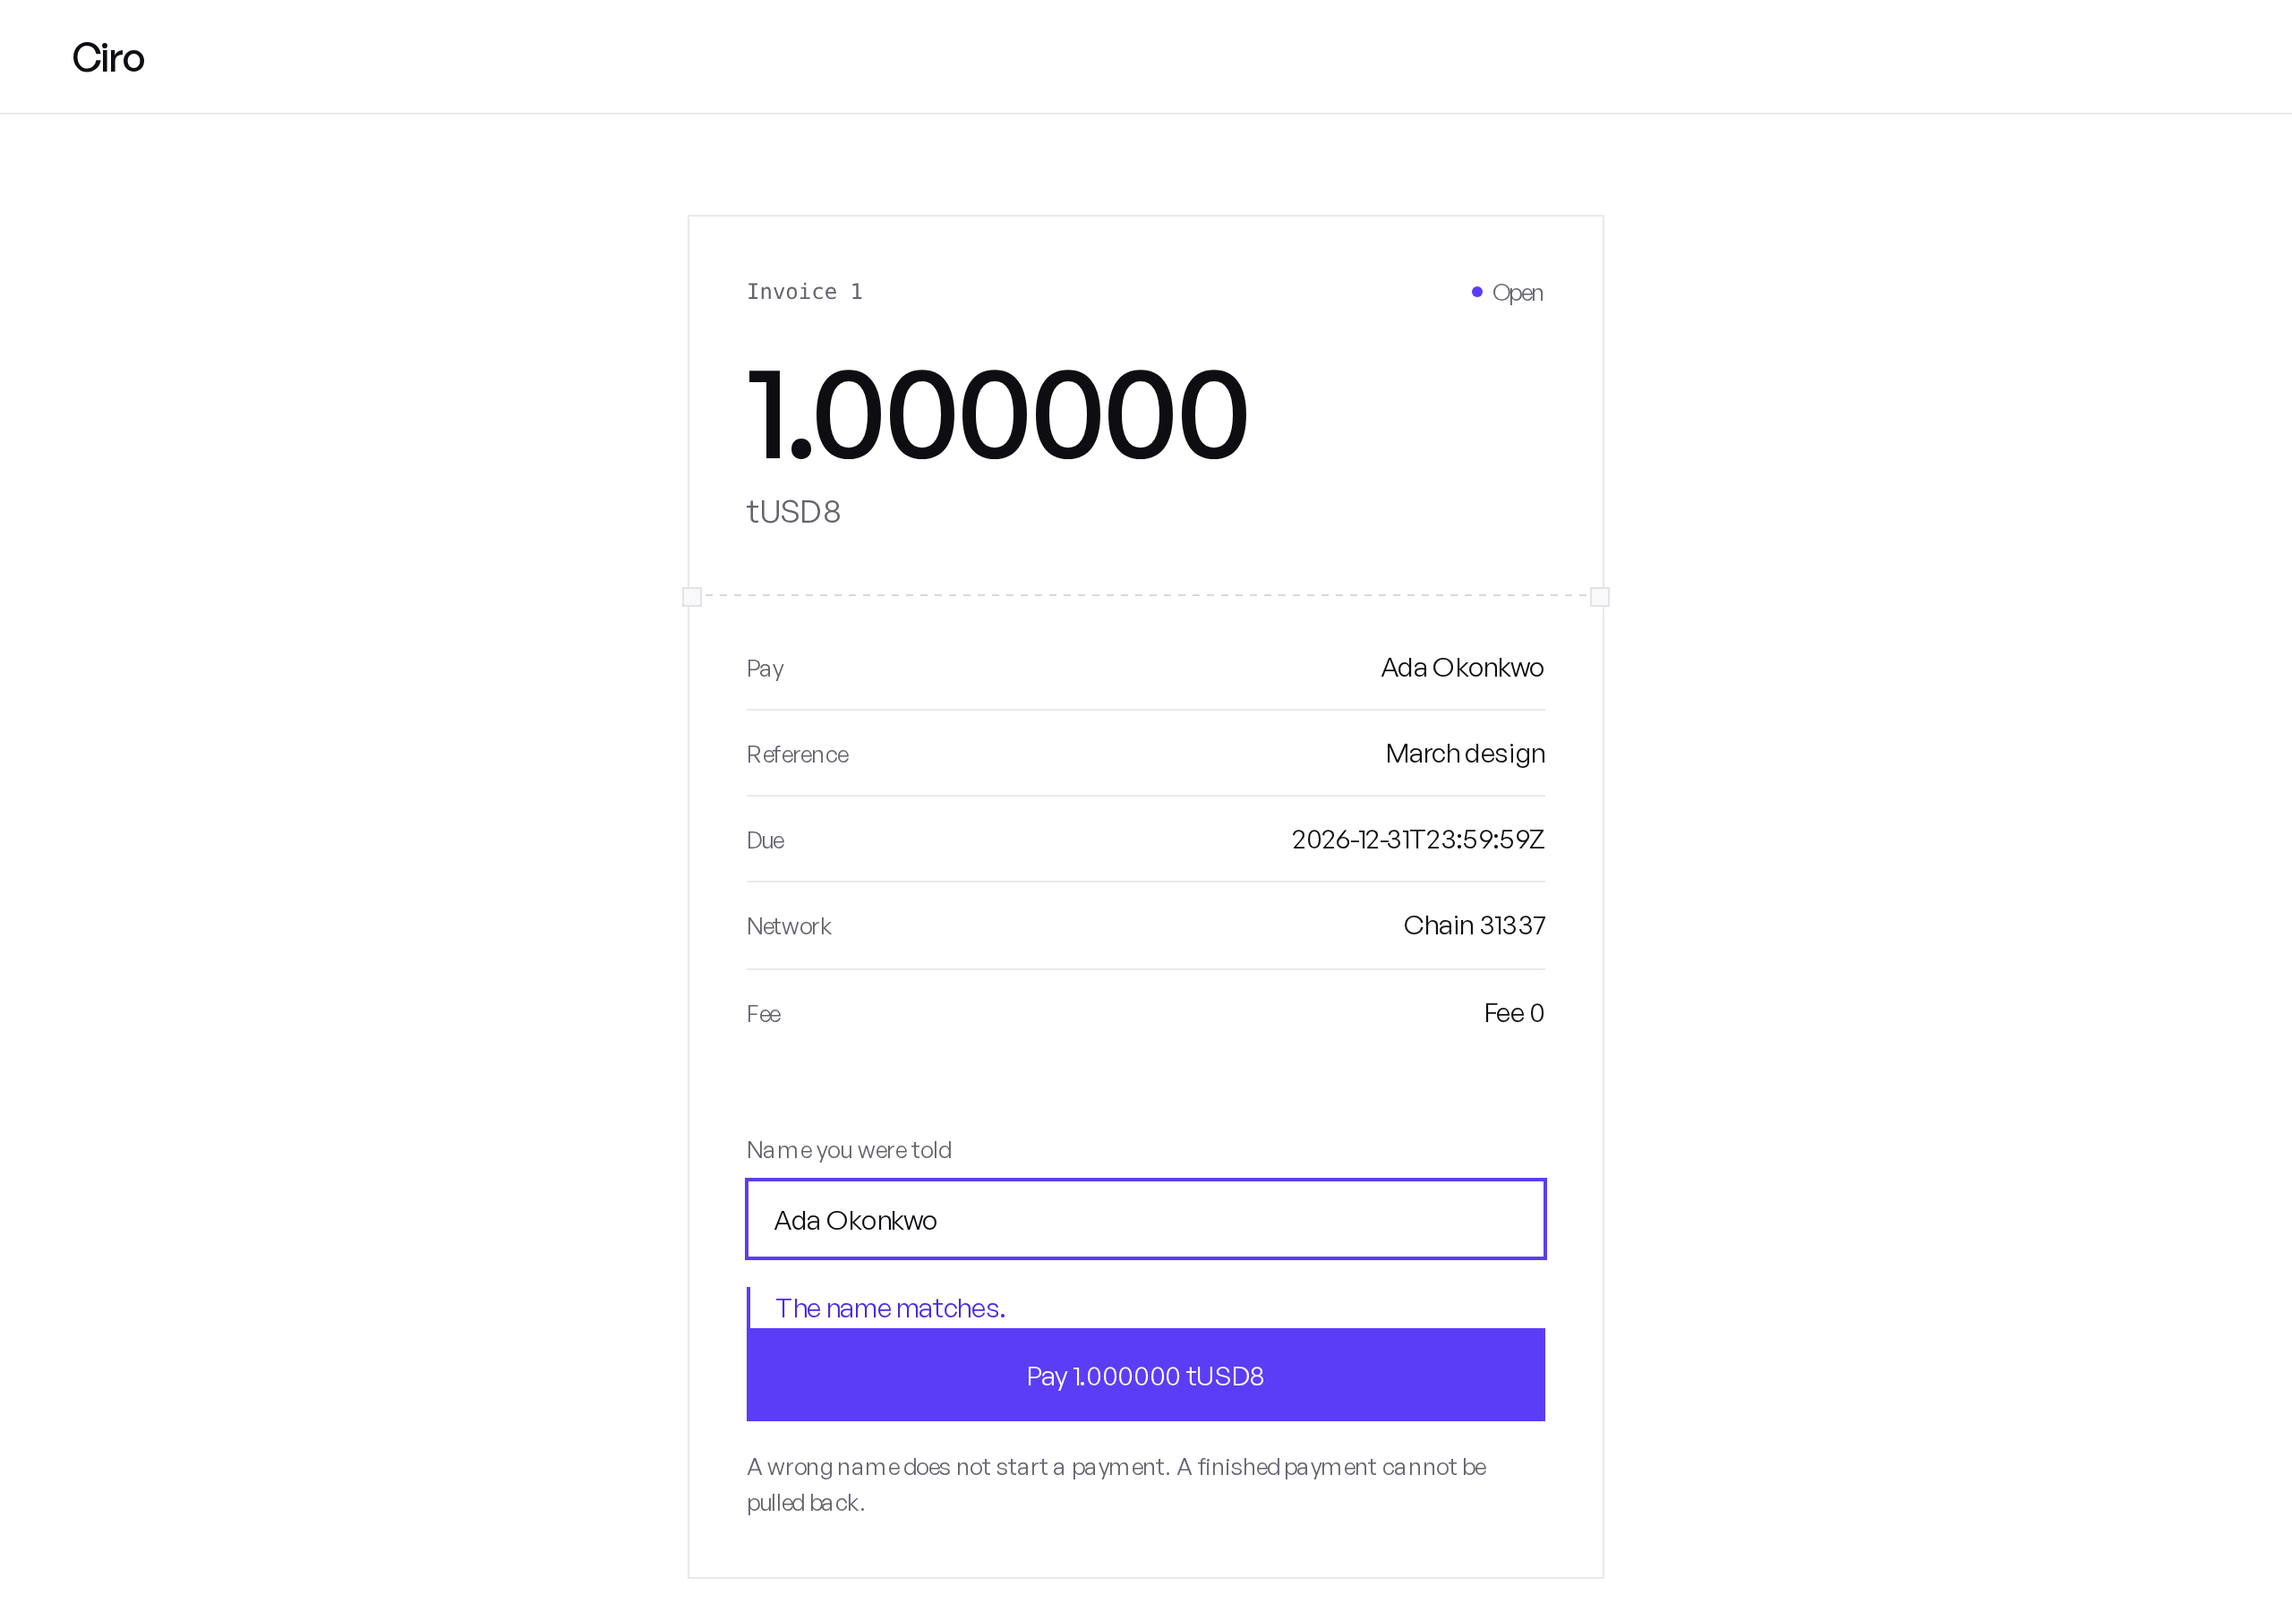
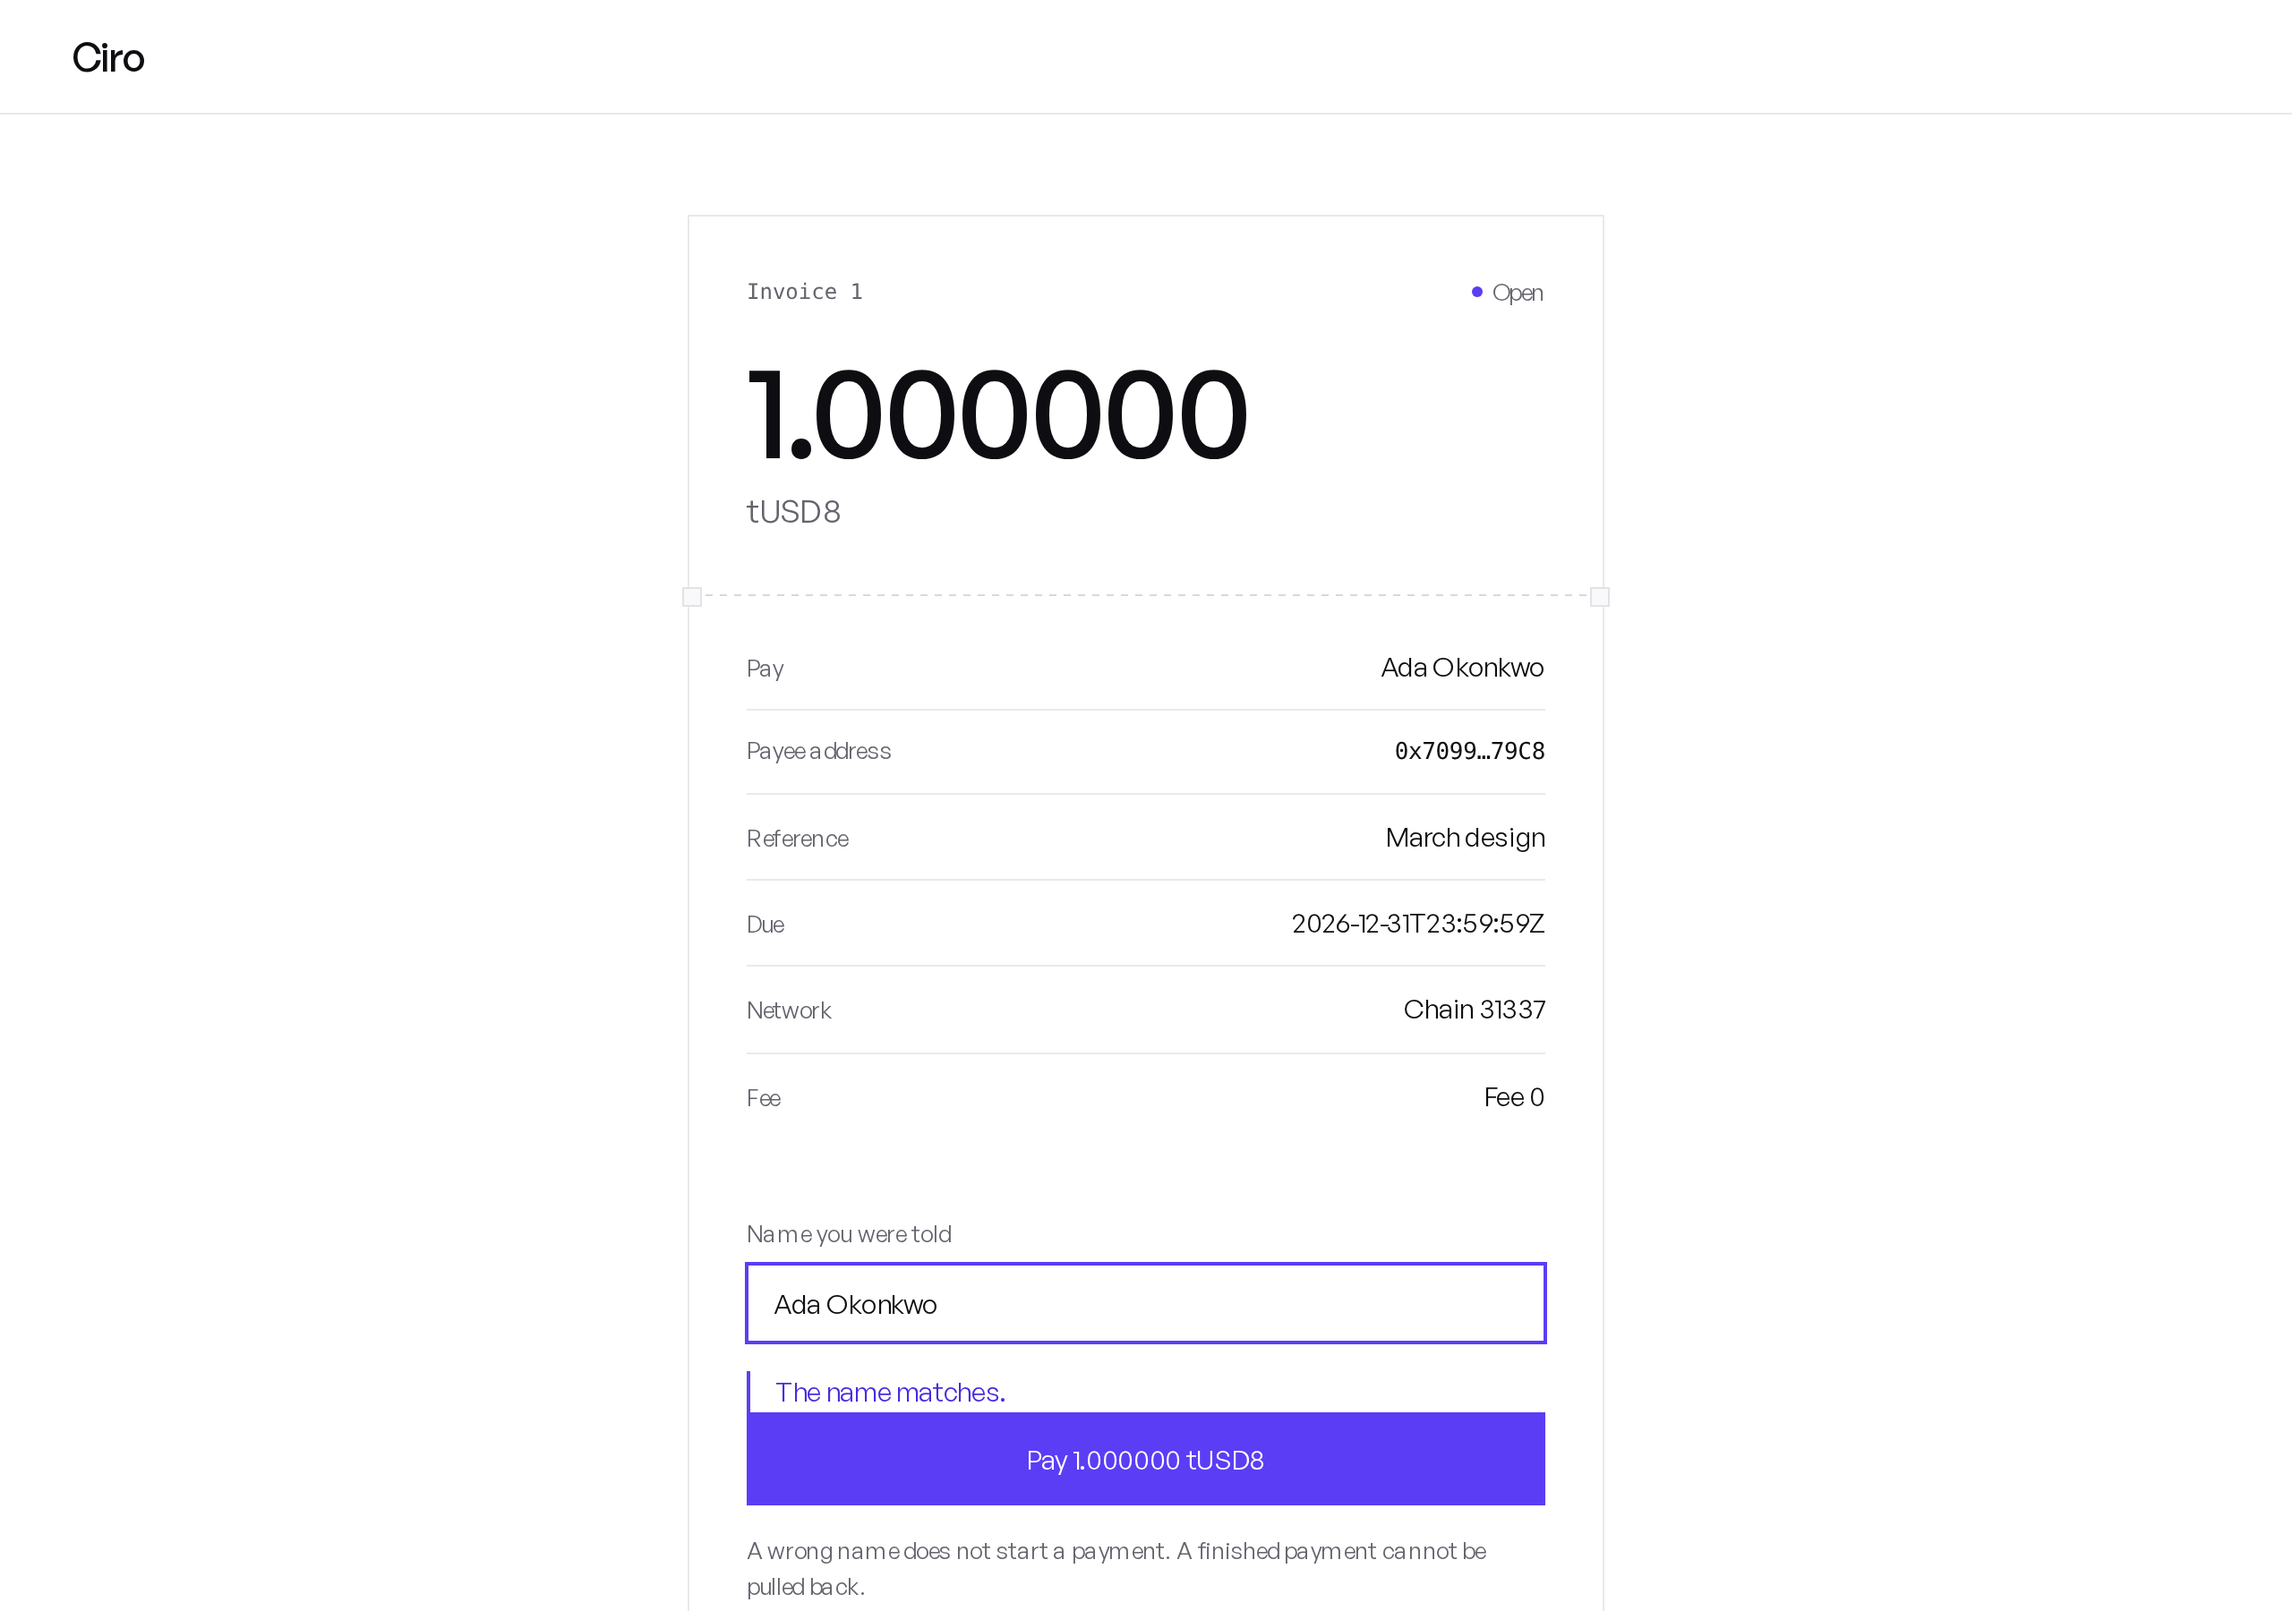
Fix the published CLI and align the product copy and docs (#25)

diff --git a/web/src/pages.js b/web/src/pages.js
@@ -1,7 +1,7 @@
 import { decodeEventLog } from "viem";
 import { ciroAbi } from "../../packages/api/src/abi.js";
 import { api } from "./api.js";
-import { esc, feeLine, feeOf, foldedText, formatFee, formatUnits, parseHuman, shortAddress, when } from "./format.js";
+import { esc, feeLine, feeOf, foldedText, formatFee, formatUnits, parseHuman, shortAddress, shortHash, when } from "./format.js";
 import { payDecision } from "./pay-state.js";
 import {
   apiUrl,
@@ -309,7 +309,7 @@ const FAQ = [
   ],
   [
     "Why does the payer type a name?",
-    "A name is easier to check than a hex address. The contract compares the typed name to the registered name and refuses anything that is not exact.",
+    "A name is easier to check than a hex address. The contract compares the typed name to the name locked on that invoice and refuses anything that is not exact.",
   ],
   [
     "What happens when the name is close?",
@@ -325,7 +325,7 @@ const FAQ = [
   ],
   [
     "What does it cost?",
-    "This deployment charges a zero fee. A later priced deployment charges 0.5%, shown before the payer confirms. Gas is paid in tQDAY.",
+    "This deployment charges a zero fee. The contract caps any future fee at 1%, and the API puts it in the summary before the payer signs. Gas is paid in tQDAY.",
   ],
   [
     "Can I pay without an account?",
@@ -360,7 +360,7 @@ function docsTeaser() {
   return `<section class="section" id="build" aria-labelledby="build-title">
     <div class="section-head">
       <p class="bracket">[ Build ]</p>
-      <h2 class="h2" id="build-title">The API, the CLI, and an MCP server.</h2>
+      <h2 class="h2" id="build-title">The API, the CLI, an MCP server, and an SDK.</h2>
       <p class="lede">Read an invoice without a key. Prepare a payment without signing it. Every route and both contract addresses are in the docs.</p>
     </div>
     <div class="build-grid">
@@ -379,8 +379,14 @@ function docsTeaser() {
       <a class="card build-card" href="#/docs">
         <span class="build-icon">${icon("book")}</span>
         <span class="build-title">MCP</span>
-        <code>node packages/mcp/bin/ciro-mcp.js</code>
+        <code>npx @getciro/mcp</code>
         <span class="build-link">Connect an agent ${arrow()}</span>
+      </a>
+      <a class="card build-card" href="#/docs">
+        <span class="build-icon">${icon("link")}</span>
+        <span class="build-title">SDK</span>
+        <code>npm i @getciro/sdk</code>
+        <span class="build-link">Read the client ${arrow()}</span>
       </a>
     </div>
   </section>`;
@@ -462,7 +468,7 @@ export function landing() {
           <p class="lede">A wallet address is easy to copy wrong and hard to check. A registered name is something two people can agree on out loud.</p>
           <dl class="why-facts">
             <div><dt>Exact</dt><dd>The name matches the invoice. The pay button appears.</dd></div>
-            <div><dt>Close</dt><dd>One letter or one space off. No pay button.</dd></div>
+            <div><dt>Close</dt><dd>The initials and word count match, and the length is within two characters. No pay button.</dd></div>
             <div><dt>Unknown</dt><dd>Not the registered name. No pay button.</dd></div>
           </dl>
         </div>
@@ -1369,7 +1375,7 @@ export async function receiptPage(id) {
             ${fee > 0n ? `<div class="fact-row"><dt>Net to payee</dt><dd>${esc(formatUnits(net))}</dd></div>` : ""}
             <div class="fact-row"><dt>Paid</dt><dd>${esc(when(paidAt))}</dd></div>
             <div class="fact-row"><dt>Network</dt><dd>${esc(chainName(chainId))}</dd></div>
-            <div class="fact-row"><dt>Transaction</dt><dd class="mono">${href ? `<a href="${esc(href)}" rel="noopener">${esc(hash)}</a>` : esc(hash || "Not indexed")}</dd></div>
+            <div class="fact-row"><dt>Transaction</dt><dd class="mono" data-tx="${esc(hash || "")}">${href ? `<a href="${esc(href)}" rel="noopener" title="${esc(hash)}">${esc(shortHash(hash))}</a>` : esc(hash ? shortHash(hash) : "Not indexed")}</dd></div>
           </dl>
         </div>
         <div class="doc-body">

diff --git a/packages/cli/src/cli.js b/packages/cli/src/cli.js
@@ -3,7 +3,17 @@ import { createInterface } from "node:readline";
 import { join } from "node:path";
 import { createPublicClient, createWalletClient, defineChain, http } from "viem";
 import { privateKeyToAccount } from "viem/accounts";
-import { parseHuman } from "../../shared/src/money.js";
+
+// Mirrors packages/shared/src/money.js. Kept inside the published CLI package so
+// `npx @getciro/cli` does not depend on a monorepo-only path.
+const SCALE = 1_000_000n;
+function parseHuman(input) {
+  if (typeof input !== "string" || !/^\d+(\.\d{1,6})?$/.test(input)) {
+    throw new Error("bad_amount");
+  }
+  const [whole, frac = ""] = input.split(".");
+  return BigInt(whole) * SCALE + BigInt(frac.padEnd(6, "0"));
+}
 
 const USAGE = `ciro register <name>
 ciro invoice --amount 100 --reference "March design" --due 2026-12-01

diff --git a/web/e2e/pay.test.js b/web/e2e/pay.test.js
@@ -221,7 +221,8 @@ test("a payer can pay the exact name and cannot pay a close one", async () => {
     assert.match(await page.locator("body").innerText(), /1\.000000/);
     assert.match(await page.locator("body").innerText(), /Ada Okonkwo/);
     assert.match(await page.locator("body").innerText(), /March design/);
-    assert.match(await page.locator("body").innerText(), /0x[0-9a-fA-F]{64}/);
+    assert.match(await page.locator("body").innerText(), /0x[0-9a-fA-F]{8}…[0-9a-fA-F]{6}/);
+    assert.match(await page.locator("[data-tx]").getAttribute("data-tx"), /^0x[0-9a-fA-F]{64}$/);
 
     await page.setViewportSize({ width: 390, height: 844 });
     assert.equal(await overflows(page), false);

diff --git a/web/src/styles.css b/web/src/styles.css
@@ -603,7 +603,8 @@ a.row:hover { background: var(--surface-inset); }
 }
 
 .build-grid { max-width: 880px; margin: 40px auto 0; display: grid; gap: 12px; }
-@media (min-width: 720px) { .build-grid { grid-template-columns: repeat(3, minmax(0, 1fr)); } }
+@media (min-width: 640px) { .build-grid { grid-template-columns: repeat(2, minmax(0, 1fr)); } }
+@media (min-width: 1000px) { .build-grid { grid-template-columns: repeat(4, minmax(0, 1fr)); } }
 .build-card {
   display: flex;
   flex-direction: column;

diff --git a/web/src/format.js b/web/src/format.js
@@ -12,6 +12,11 @@ export function shortAddress(address) {
   return `${address.slice(0, 6)}…${address.slice(-4)}`;
 }
 
+export function shortHash(hash) {
+  if (!hash) return "";
+  return `${hash.slice(0, 10)}…${hash.slice(-6)}`;
+}
+
 export function when(seconds) {
   if (seconds == null) return "";
   return new Date(Number(seconds) * 1000).toISOString().replace(".000Z", "Z");

diff --git a/README.md b/README.md
@@ -18,6 +18,14 @@ Live on QDay Aevum testnet (chain 44005) · Ciro `0x4AceB37ecAce160B436311146002
 
 ---
 
+## Demo
+
+[Watch the 45 second app flow](https://ciro-a9s.pages.dev/media/ciro-demo-v3.mp4). The same clip plays on the landing.
+
+The UI screenshots use a local test chain. The live Aevum deployment is linked above, and the transactions in the proof table are from it.
+
+---
+
 ## The idea
 
 A stablecoin transfer carries a sender, a receiver, and an amount. It does not carry the invoice, it does not check the name the payer was given, and it leaves no receipt an accountant can file. When the amount is short, the name is wrong, or the payment is late, a person repairs it by hand. The transfer is final.
@@ -44,7 +52,7 @@ A wallet address is easy to copy wrong and hard to check. A registered name is s
 | Result | What the payer sees | Button |
 |---|---|---|
 | Exact | The name matches the invoice | Pay the exact amount |
-| Close | One letter or space off | No pay button |
+| Close | Initials and word count match, length within two characters | No pay button |
 | Unknown | Not the registered name | No pay button |
 
 ## Dashboard

diff --git a/docs/design/UX.md b/docs/design/UX.md
@@ -20,7 +20,7 @@ The pay screen has three visible results before any signature:
 | Result | What the payer sees | Button |
 |---|---|---|
 | Exact | The name matches the account on this invoice. | Pay the exact amount. |
-| Close | The name is almost the registered one. The payment will revert. | No pay button. Edit the name. |
+| Close | Initials and word count match, length within two characters. The payment will revert. | No pay button. Edit the name. |
 | None | This name is not the account. | No pay button. |
 
 The button is absent until the result is exact. A disabled button that still looks like pay is how people lose money.
